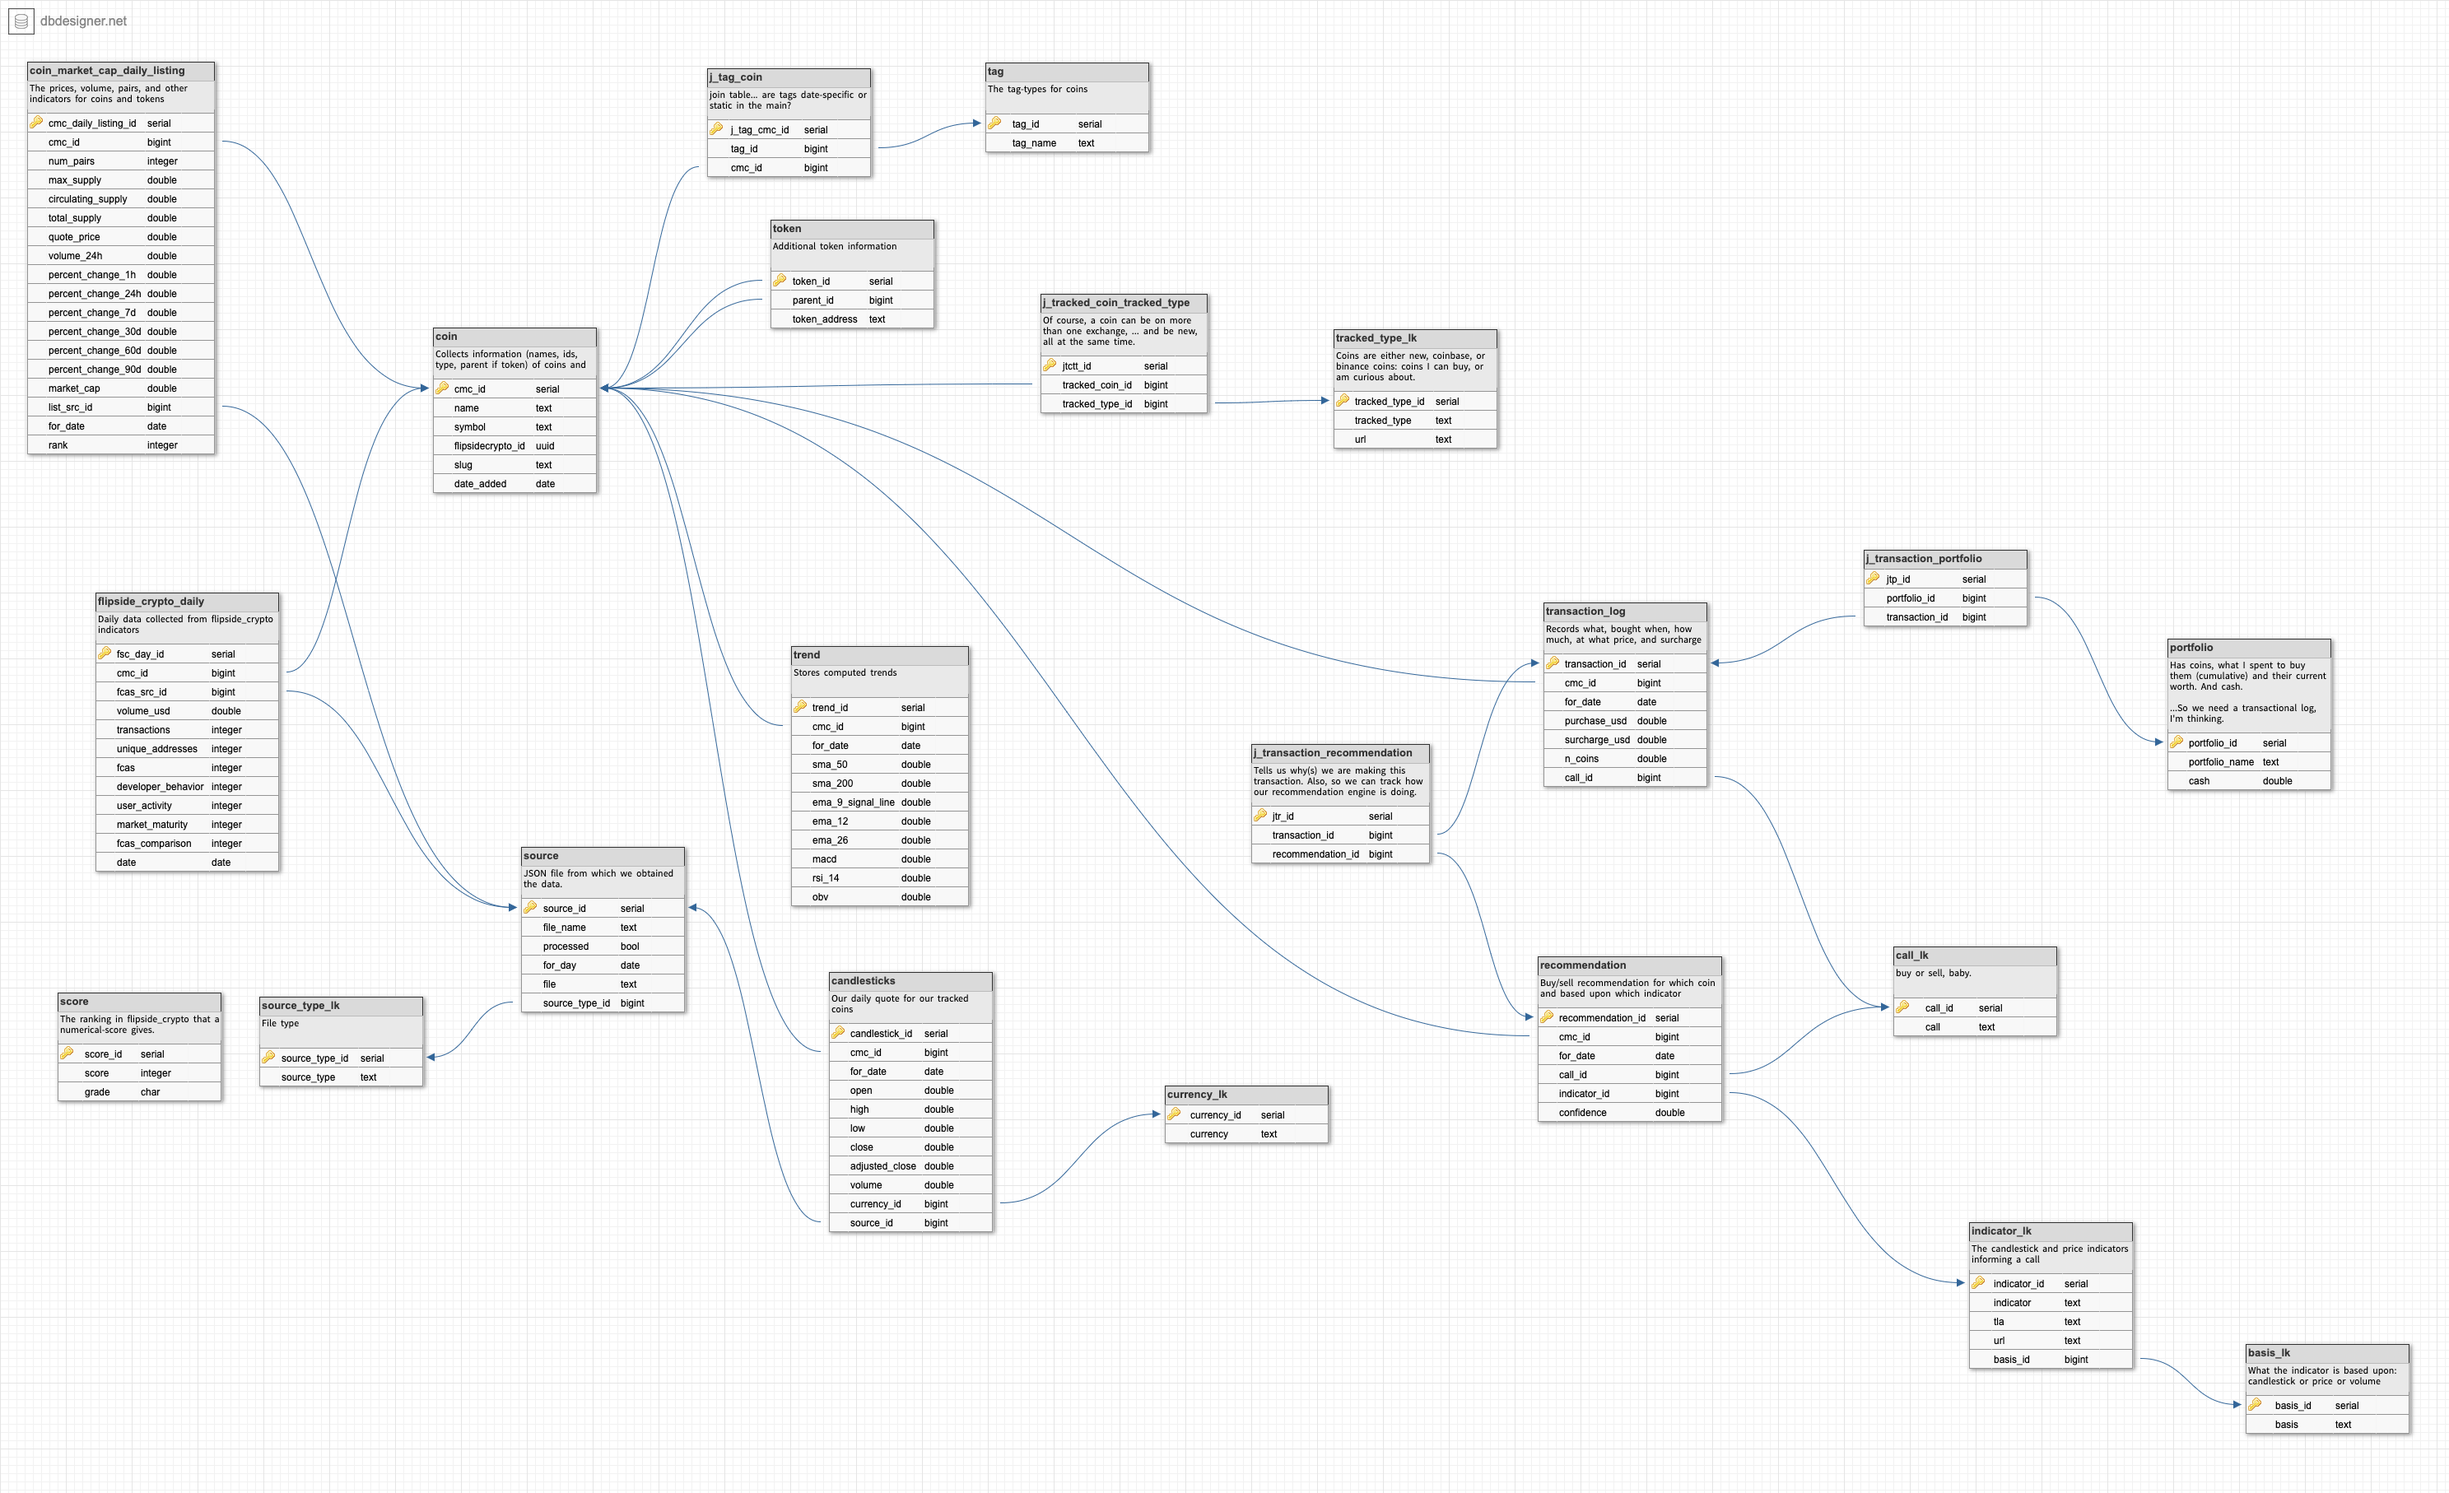
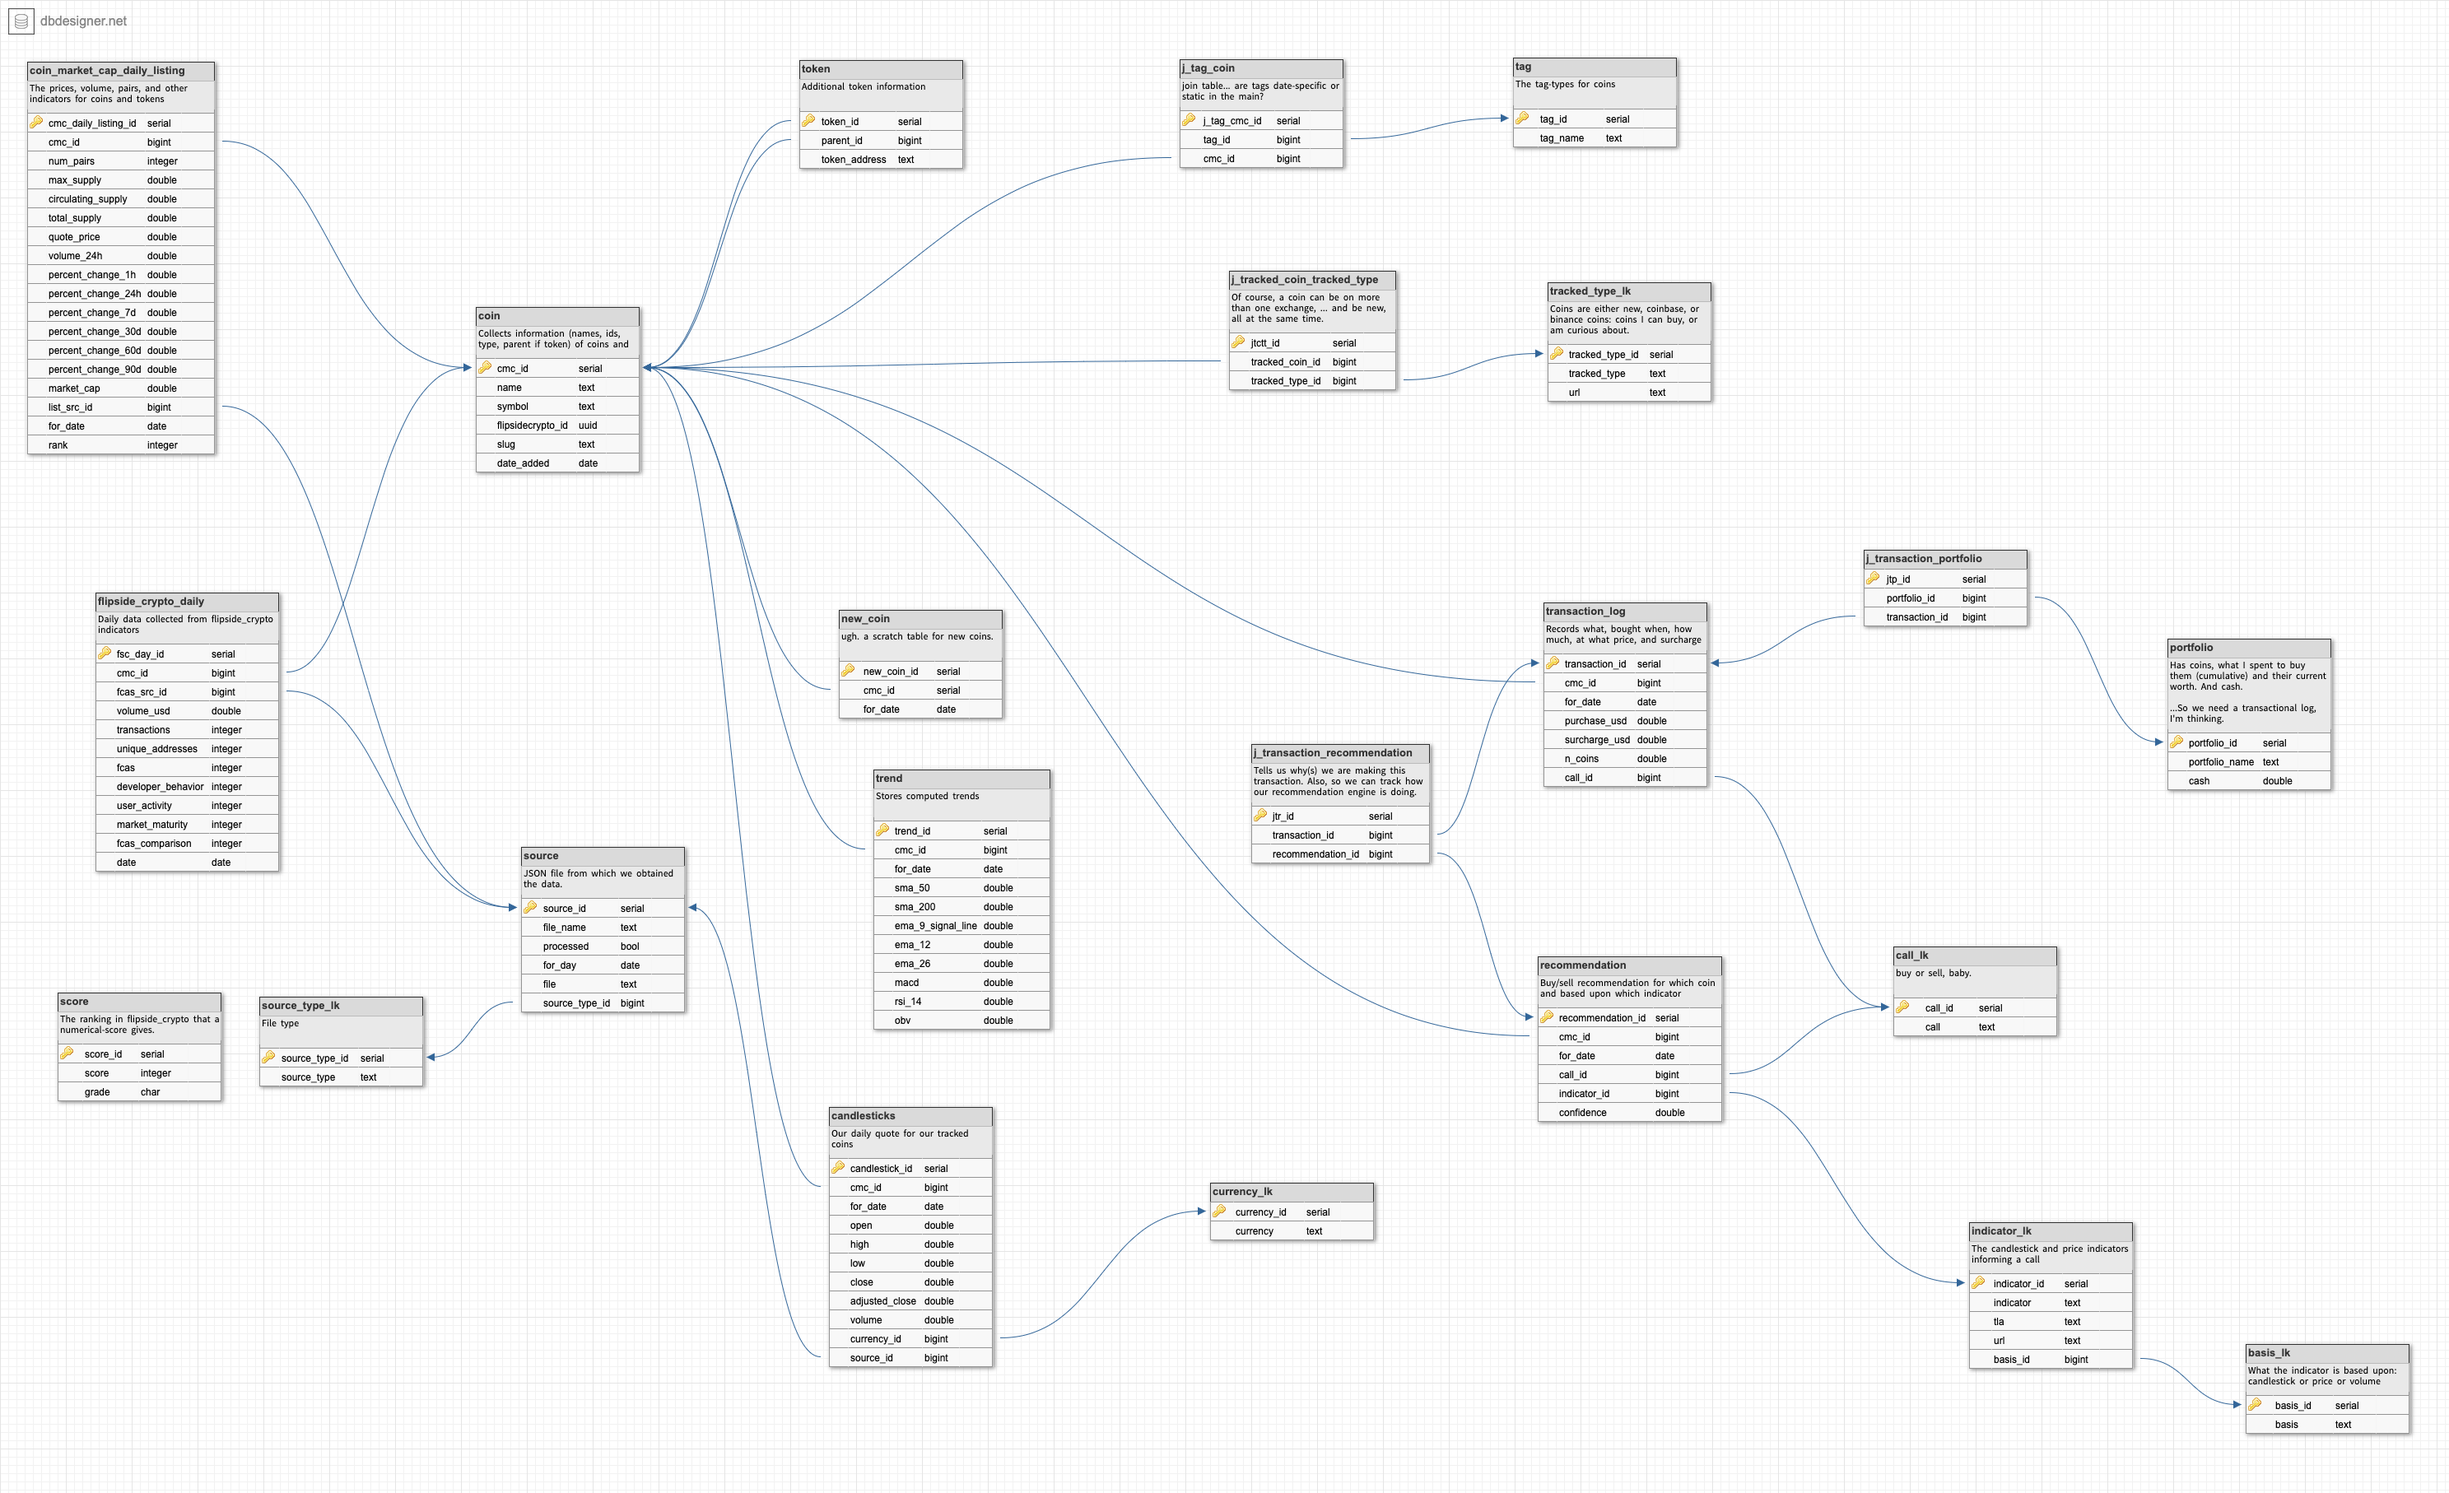
Separated monolithic Go-program into a pipeline of loaders, processors, patterns-...ers, and reports-...ers.

diff --git a/README.md b/README.md
@@ -80,27 +80,17 @@ First, the [Five Most Powerful Candlestick Patterns](https://www.investopedia.co
 
 ## TODOs:
 
-* create a separate program that runs a report of recommendations, call it
-  Triple-R, lol.
-  * we need to derive recommendations from trends
-
-* separate monolith into programs:
-  * load listings
-  * load candlesticks
-  * process coins
-  * process candlesticks
-  * process trends
-  * process recommendations
-  * report top 10 coins
-  * report recommendations
+  * process coins (TODO: put new coins into new_coin table) ... (done) (... but
+    now I need to pick them on on the other side)
+  * report top 10 coins (TODO: pick up new coins from data-store)
 
 * represent coins-as-graph
 
 * complete candlestick computations
   * Three Black Crows
-  * Three Line Strike
+  * Three Line Strike, done
   * Abandoned Baby
-  * Two Black Gapping
+  * Two Black Gapping, done
   * Evening Star
 
 * create a spot-check that runs the numbers on any arbitrary yahoo-symbol
@@ -135,6 +125,8 @@ https://github.com/geophf/1HaskellADay/tree/master/exercises/HAD/Graph/D3
 ## Revision History
 ### ... or feeping creatures! AHA!
 
+* 2021-04-29: Separated monolith into loader, processor, patterns, reports
+  pipelines.
 * 2021-04-23: We can now run recommendation reports (RRR or R3 or Triple-R)
 * 2021-04-18: Automated uploading which coins we are tracking from CSV files.
 * 2021-04-13: Finished On Balance Volume; switched to list-monad for
